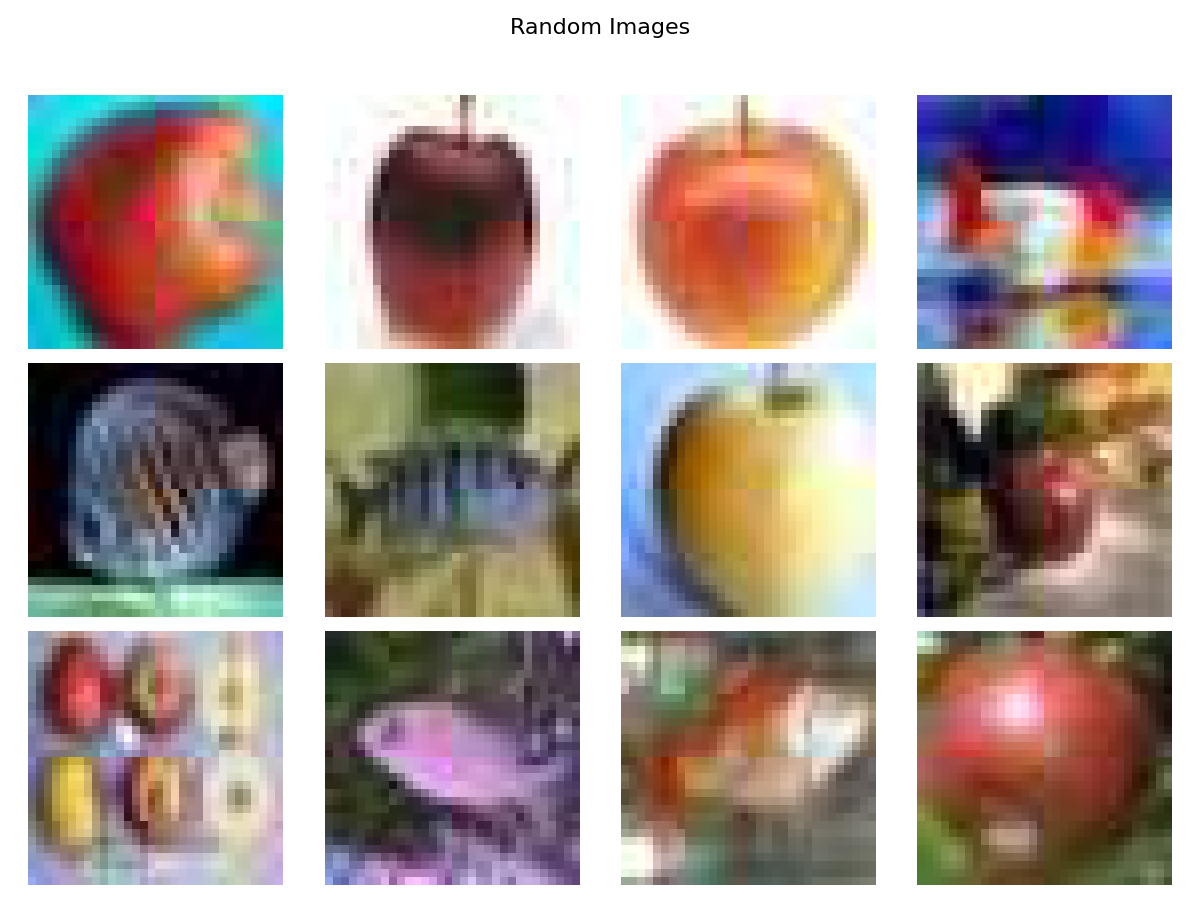
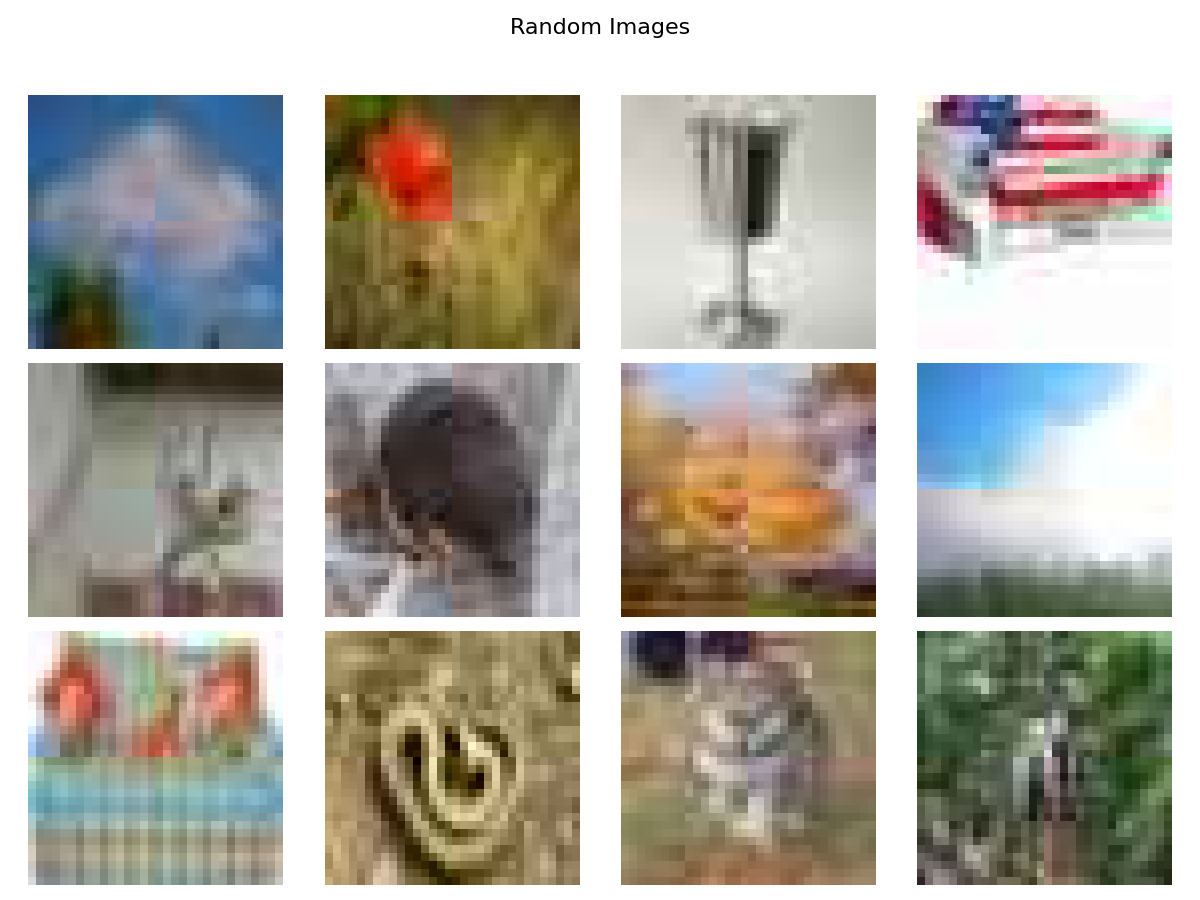
new add

diff --git a/utils/new_utils.py b/utils/new_utils.py
@@ -1,15 +1,9 @@
 import torch
-<<<<<<< HEAD
-import numpy as np
-from sklearn.manifold import TSNE
-import matplotlib.pyplot as plt
-
-=======
 import torch.nn as nn
 import torch.jit
 import torchvision
 import math
-from einops import rearrange
+#from einops import rearrange
 
 
 
@@ -22,7 +16,6 @@ from utils.losses import (
     Entropy
 )
 ent = Entropy()
->>>>>>> d174a543d4d4f8bae0c0c46035b00c518c79a332
 def plot_tsne(img_features, text_features, filename="tsne_plot.pdf"):
     # Detach tensors and convert to numpy arrays
     img_features_np = img_features.detach().cpu().numpy()
@@ -31,11 +24,8 @@ def plot_tsne(img_features, text_features, filename="tsne_plot.pdf"):
     # Combine image and text features
     combined_features = np.concatenate((img_features_np, text_features_np), axis=0)
     
-<<<<<<< HEAD
-=======
 
     #new edit
->>>>>>> d174a543d4d4f8bae0c0c46035b00c518c79a332
     # Perform t-SNE
     tsne = TSNE(n_components=2, random_state=0)
     tsne_results = tsne.fit_transform(combined_features)
@@ -51,22 +41,14 @@ def plot_tsne(img_features, text_features, filename="tsne_plot.pdf"):
     plt.savefig(filename)
     plt.show()
 
-<<<<<<< HEAD
-def plot_random_images( x, save_path="random_images.png"):
-=======
 def plot_random_images( x, save_path="random_images.png", indices = None):
->>>>>>> d174a543d4d4f8bae0c0c46035b00c518c79a332
         """
         Plots 12 random images from the given list `x` where each image is in the shape (1, 3, 224, 224).
         Saves the plotted images to the specified path.
         """
         # Select 12 random indices from the list `x`
-<<<<<<< HEAD
-        indices = np.random.choice(len(x), size=12, replace=False)
-=======
         if indices is None:
             indices = np.random.choice(len(x), size=12, replace=False)
->>>>>>> d174a543d4d4f8bae0c0c46035b00c518c79a332
         selected_images = [x[i] for i in indices]
 
         # Set up the matplotlib figure
@@ -87,9 +69,6 @@ def plot_random_images( x, save_path="random_images.png", indices = None):
 
         plt.tight_layout(rect=[0, 0, 1, 0.95])
         plt.savefig(save_path)
-<<<<<<< HEAD
-        plt.show()
-=======
         plt.show()
 
         return indices
@@ -141,4 +120,3 @@ def confident_correct_pred(outputs, y):
     #print(f"Average entropy of correct predictions: {avg_entropy}")
     return avg_entropy
 
->>>>>>> d174a543d4d4f8bae0c0c46035b00c518c79a332
